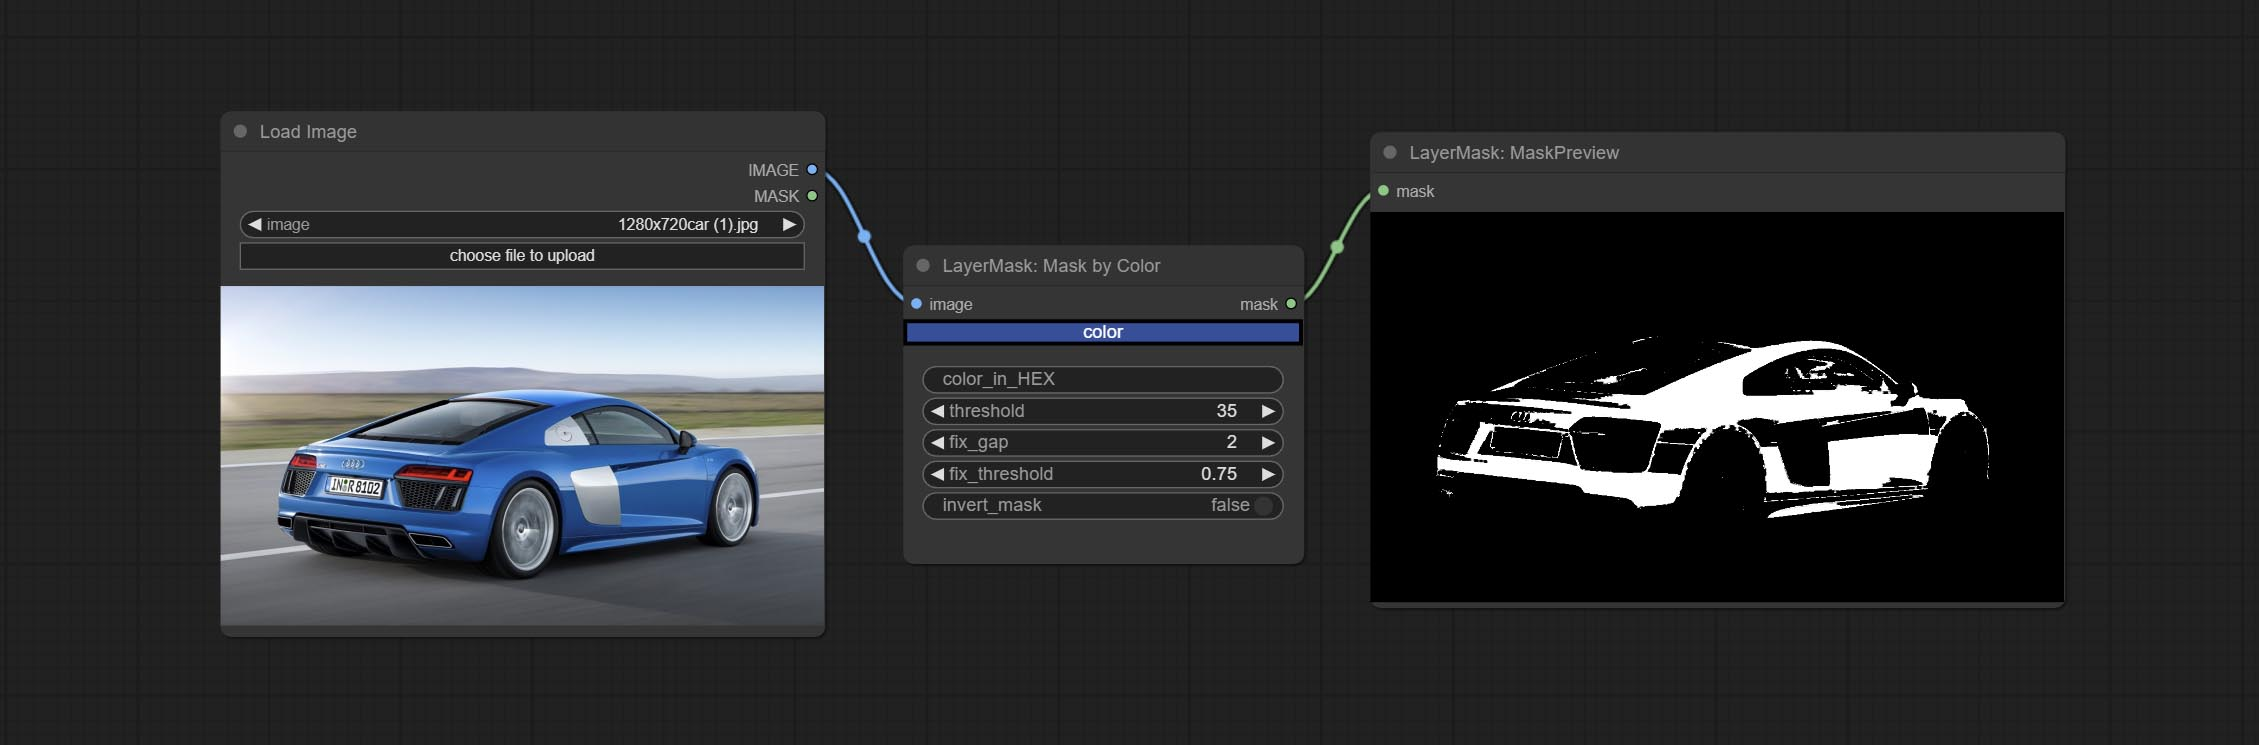
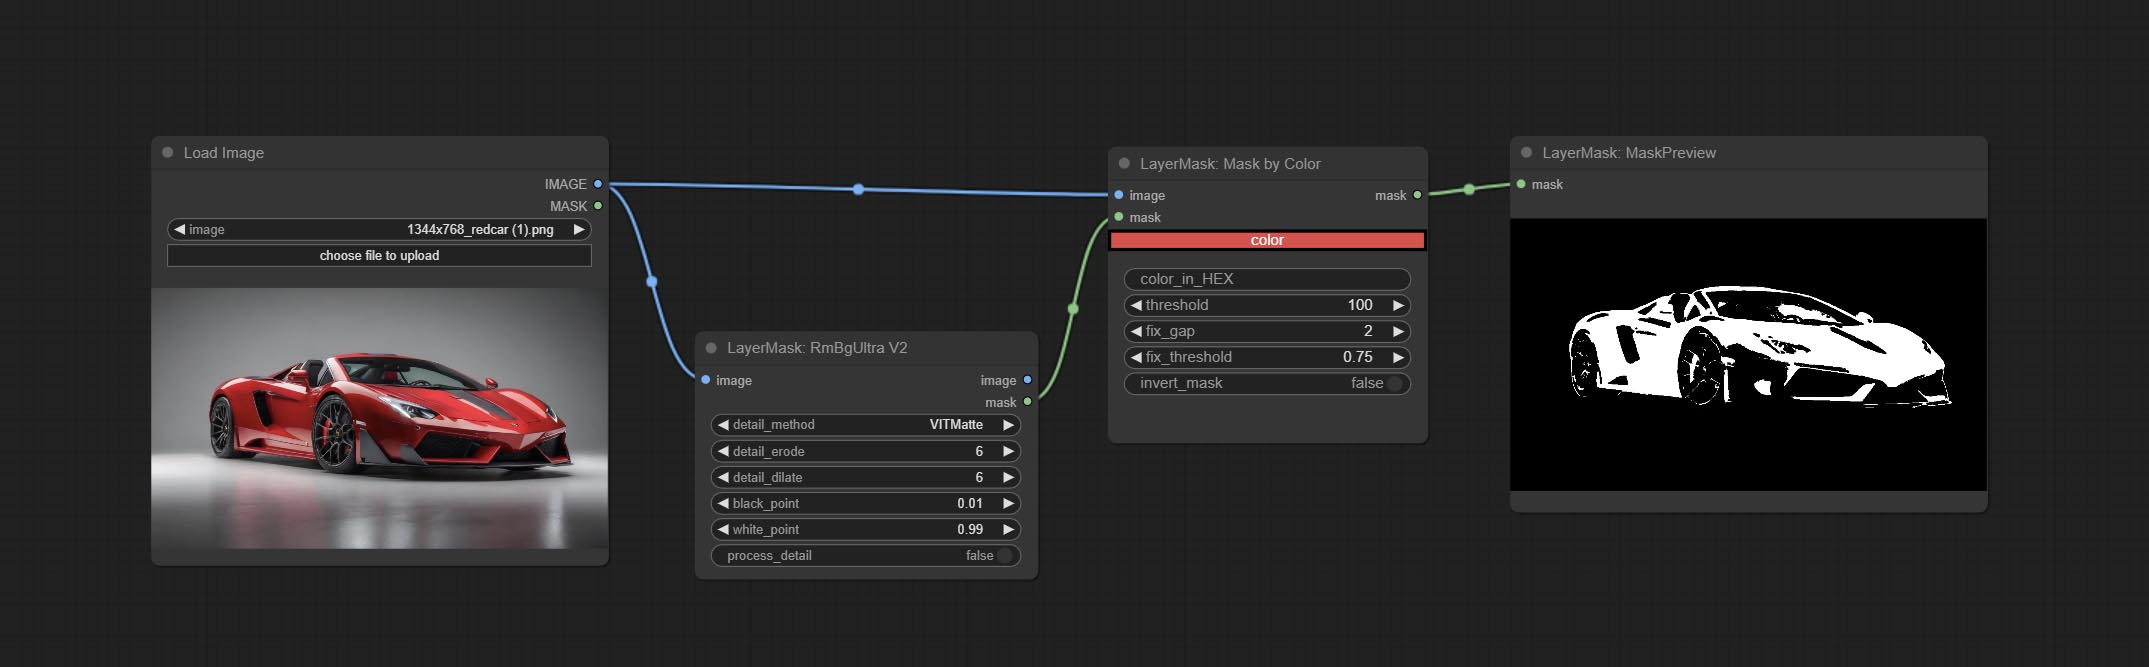
MaskByColor add optional mask input

Changed region(s): [[0.0624, 0.1799, 0.9353, 0.8696], [0.0935, 0.1499, 0.1559, 0.2099], [0.0624, 0.2099, 0.1247, 0.2399]]

diff --git a/py/mask_by_color.py b/py/mask_by_color.py
@@ -15,6 +15,9 @@ class MaskByColor:
                 "fix_gap": ("INT", {"default": 2, "min": 0, "max": 32, "step": 1}),
                 "fix_threshold": ("FLOAT", {"default": 0.75, "min": 0.01, "max": 0.99, "step": 0.01}),
                 "invert_mask": ("BOOLEAN", {"default": False}),  # 反转mask
+            },
+            "optional": {
+                "mask": ("MASK",),  #
             }
         }
 
@@ -24,20 +27,41 @@ class MaskByColor:
     CATEGORY = '😺dzNodes/LayerMask'
 
     def mask_by_color(self, image, color, color_in_HEX, threshold,
-                      fix_gap, fix_threshold, invert_mask):
+                      fix_gap, fix_threshold, invert_mask, mask=None):
 
         if color_in_HEX != "" and color_in_HEX.startswith('#') and len(color_in_HEX) == 7:
             color = color_in_HEX
 
         ret_masks = []
+        l_images = []
+        l_masks = []
 
-        for i in image:
-            img = tensor2pil(i.unsqueeze(0))
-            mask = create_mask_from_color_tensor(img, color, threshold)
+        for l in image:
+            l_images.append(torch.unsqueeze(l, 0))
+            m = tensor2pil(l)
+            if m.mode == 'RGBA':
+                l_masks.append(m.split()[-1])
+            else:
+                l_masks.append(Image.new('L', m.size, 'white'))
+        if mask is not None:
+            if mask.dim() == 2:
+                mask = torch.unsqueeze(mask, 0)
+            l_masks = []
+            for m in mask:
+                if invert_mask:
+                    m = 1 - m
+                l_masks.append(tensor2pil(torch.unsqueeze(m, 0)).convert('L'))
+
+        for i in range(len(l_images)):
+            img = l_images[i] if i < len(l_images) else l_images[-1]
+            img = tensor2pil(img)
+            _mask = l_masks[i] if i < len(l_masks) else l_masks[-1]
+
+            mask = Image.new('L', _mask.size, 'black')
+            mask.paste(create_mask_from_color_tensor(img, color, threshold), mask=_mask)
             mask = image2mask(mask)
             if invert_mask:
                 mask = 1 - mask
-
             if fix_gap:
                 mask = mask_fix(mask, 1, fix_gap, fix_threshold, fix_threshold)
             ret_masks.append(mask)

diff --git a/README.MD b/README.MD
@@ -1382,6 +1382,7 @@ Generate a mask based on the selected color.
 Node Options:  
 ![image](image/mask_by_color_node.jpg)    
 * image: Input image.
+* mask: This input is optional, if there is a mask, only the colors inside the mask are included in the range.
 * color: Color selector. Click on the color block to select a color, and you can use the straws on the color picker panel to pick up the screen color. Note: When using straws, maximize the browser window.
 * color_in_HEX<sup>4</sup>: Enter color values. If this item has input, it will be used first, ignoring the color selected by the ```color``` .
 * threshold: Mask range threshold, the larger the value, the larger the mask range.
